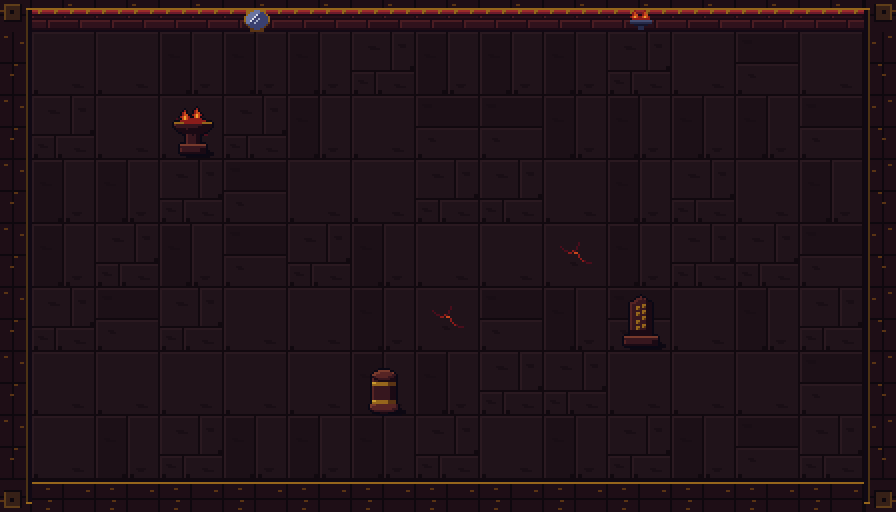
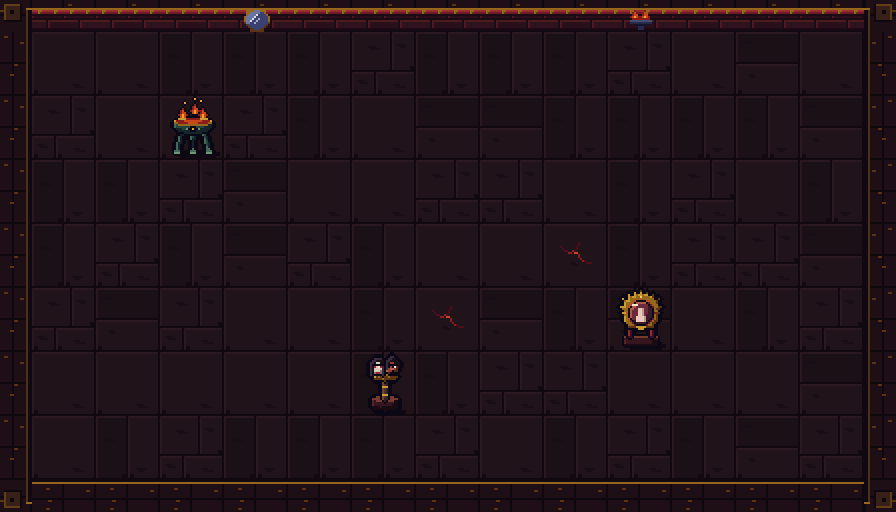
Runde 68: Requisiten Enma-chō in Hi-Res (Kohlebecken auf Krallenfüßen, Jōhari no Kagami, Nintōjō mit Miru-me und Kagu-hana); Spiegel leuchtet
Claude-Session: https://claude.ai/code/session_01KhgxT7UTZZ18pShxxFuE9n

Changed region(s): [[0.1875, 0.1875, 0.25, 0.3125], [0.6875, 0.5625, 0.75, 0.6562], [0.4062, 0.6875, 0.4688, 0.8125]]

diff --git a/art_src/fable/environment/props.py b/art_src/fable/environment/props.py
@@ -933,28 +933,98 @@ def rocks(name):
         out.append(fin(cv, P))
 
     elif name == 'enma_cho':
-        cv, rng = new(0)                                     # stone brazier
-        box(cv, k, 10, 24, 22, 28, top=2)
-        cv.rect(13, 17, 19, 23, k[1])
-        cv.vl(13, 17, 23, k[2])
-        cv.rect(18, 17, 19, 23, k[0])
-        bowl = cv.E(16, 14, 9.4, 5) & (cv.Y >= 13)
-        cv.form(bowl, (k[0], k[1], k[2]), 3, 1)
-        cv.hl(7, 25, 13, GOLD[1])
-        cv.fill(cv.E(16, 12, 6, 1.6), LAVA[1])
-        flame(cv, 10, 7)
-        flame(cv, 16, 6)
+        cv, rng = new(0)                                     # Bronzenes Kohlebecken auf drei Krallenfüßen
+        for (x0, x1) in ((11, 8), (21, 24), (16, 16)):
+            leg = capsule(cv, x0, 16, 1.1, x1, 26.5, .9)
+            cv.fill(dil(leg), K)
+            cv.form(leg, BRONZE[:3], 1, 1)
+            cv.fill(cv.E(x1, 27, 1.8, 1), BRONZE[2])        # Klaue
+            for dx in (-1.2, 0, 1.2):
+                cv.hpx(x1 + dx, 27.6, BRONZE[3])
+        bowl = cv.E(16, 13.5, 9.5, 5.2) & (cv.Y >= 12.5)
+        cv.fill(dil(bowl), K)
+        cv.form(bowl, BRONZE[:3], 2, 1)
+        for x in (10, 13, 16, 19, 22):                       # Rankenmuster
+            cv.hpx(x, 15.5, BRONZE[3])
+            cv.hpx(x + .5, 16, BRONZE[0])
+        cv.fill(cv.E(16, 16, 2, 1.6), K)                     # Oni-Fratze vorn
+        cv.hpx(15.5, 15.6, LAVA[3]); cv.hpx(16.5, 15.6, LAVA[3])
+        rim = cv.E(16, 12.5, 9.6, 2.2) & ~cv.E(16, 12.3, 8.6, 1.4)
+        cv.fill(rim, GOLD[2])
+        cv.fill(rim & (cv.Y > 12.8), GOLD[1])
+        cv.fill(cv.E(16, 12.3, 8.4, 1.4), LAVA[1])           # Glut
+        cv.fill(cv.E(16, 12.3, 5, .8), LAVA[2])
+        for (x, y) in ((9.5, 6), (15, 4), (19.5, 6.5)):
+            flame(cv, x, y)
+        for (x, y) in ((12, 3), (20, 2), (17, 1)):           # Funken
+            cv.hpx(x, y, LAVA[3])
         out.append(fin(cv, P))
-        cv, rng = new(1)                                     # judgment stele with gold script
+
+        cv, rng = new(1)                                     # Jōhari no Kagami: der Spiegel, der alle Taten zeigt
         box(cv, k, 8, 24, 24, 28, top=2)
-        m = cv.PG([(11, 23), (11, 7), (16, 4), (21, 7), (21, 23)])
-        cv.form(m, (k[0], k[1], k[2]), 3, 1)
-        for (x, ys) in ((14, (9, 12, 16, 19)), (17, (8, 11, 14, 18))):
-            for y in ys:
-                cv.rect(x, y, x + 1, y + 1, GOLD[1])
-                cv.px(x + 1, y + 1, GOLD[0])
+        for x in (10.5, 21.5):                               # Ständer
+            post = cv.R(x - .8, 17, x + .8, 24)
+            cv.fill(dil(post), K)
+            cv.form(post, RED[:3], 1, 1)
+        halo = cv.E(16, 12, 9, 9.5) & (cv.Y <= 19)           # Flammenkranz um den Spiegel
+        for i in range(9):
+            ang = math.pi * (1.1 + i * .1)
+            tx, ty = 16 + math.cos(ang) * 11, 12 + math.sin(ang) * 11.5
+            halo |= capsule(cv, 16 + math.cos(ang) * 8, 12 + math.sin(ang) * 8, 1.6, tx, ty, .3)
+        cv.fill(dil(halo), K)
+        cv.form(halo, GOLD[:3], 1, 1)
+        frame = cv.E(16, 12, 7, 7)
+        cv.fill(frame, RED[1])
+        cv.fill(frame & ~sh(frame, 1, 1), RED[3])
+        glass = cv.E(16, 12, 5.6, 5.6)
+        cv.fill(dil(glass) & frame, K)
+        cv.form(glass, ('#3a1a2a', '#6a2a3a', '#b05a4a'), 2, 1)
+        soul = cv.E(16, 11, 1.5, 1.6) | (cv.E(16, 15, 2.6, 2.6) & (cv.Y <= 16.5))   # Seele im Spiegel
+        cv.fill(soul & glass, '#e8c8b8')
+        cv.fill(soul & glass & ~sh(soul, -1, 0), '#c09a90')
+        cv.hline([(12.5, 8.5), (14, 7.5)], '#ffe8d0')        # Glanz
+        cv.hpx(16, 4.5, GOLD[3])
+        cv.fill(cv.E(16, 19.2, 2.2, 1), GOLD[2])
         out.append(fin(cv, P))
-        out.append(fin(pillar(2, k, bands=GOLD), P))
+
+        cv, rng = new(2)                                     # Nintōjō: Enmas Stab mit Miru-me und Kagu-hana
+        base = cv.E(16, 26.5, 7, 2.5) | cv.R(10, 23, 22, 26.5)
+        cv.fill(dil(base), K)
+        cv.form(base, k[:3], 2, 1)
+        cv.fill(cv.E(16, 23, 6, 1.6), k[3])
+        staff = capsule(cv, 16, 23, 1.2, 16, 12, 1)
+        cv.fill(dil(staff), K)
+        cv.form(staff, WOOD[1:], 1, 1)
+        for y in (21, 17):
+            cv.fill(staff & (cv.Y >= y) & (cv.Y < y + .8), GOLD[2])
+        lotus = cv.E(16, 12, 6, 2)                           # Lotussockel
+        cv.fill(dil(lotus), K)
+        cv.form(lotus, GOLD[:3], 1, 1)
+        for x in (11.5, 14, 16.5, 19):
+            cv.hline([(x, 12.5), (x + 1, 11)], GOLD[0])
+        for (cx, skin, side) in ((12.4, '#d8c8b8', -1), (19.6, '#9a3a2a', 1)):
+            head = cv.E(cx, 7.2, 3.2, 3.7)
+            hair = cv.E(cx, 6, 3.6, 3.4) & ~cv.E(cx, 7.6, 2.5, 3)
+            if side < 0:                                     # Miru-me: weißes Gesicht, langes schwarzes Haar
+                hair |= cv.R(cx - 3.5, 6, cx - 2.3, 11) | cv.R(cx + 2.3, 6, cx + 3.5, 11)
+            else:                                            # Kagu-hana: roter Zornkopf mit Haarknoten
+                hair |= cv.E(cx, 3, 1.4, 1.3)
+            cv.fill(dil(head | hair), K)
+            cv.form(head, (mix(skin, K, .45), skin, mix(skin, '#ffffff', .2)), 1, 1)
+            cv.fill(hair, '#1a1018')
+            cv.fill(hair & ~sh(hair, 1, 1), '#3a2a40')
+            for sx in (-1, 1):
+                ex = cx + sx * 1.3
+                cv.hline([(ex - .8, 6 - sx * side * .4), (ex + .8, 6 + sx * side * .4)], K)   # Brauen
+                cv.hpx(ex - .5, 7, '#f0e8d8'); cv.hpx(ex, 7, '#f0e8d8')
+                cv.hpx(ex - .5 + side * .5 * 0, 7, K) if side > 0 else cv.hpx(ex, 7, '#b02020')
+            if side < 0:
+                cv.hline([(cx - .5, 9.5), (cx + .5, 9.5)], '#a02030')
+            else:
+                cv.fill(cv.E(cx + .3, 8.2, 1, 1.1), mix(skin, '#ffffff', .2))   # die große, witternde Nase
+                cv.hpx(cx + .8, 8.8, K)
+                cv.hline([(cx - 1, 10), (cx, 9.6), (cx + 1, 10)], K)
+        out.append(fin(cv, P))
 
     elif name == 'tsukiyomi':
         cv, rng, m = plain_boulder(0)                        # moon rock with craters

diff --git a/yokai/gfx.py b/yokai/gfx.py
@@ -701,7 +701,8 @@ PROP_LIGHT = {
     ('shinkai', 0): (16, 21, SEA, 36),                     # Perle der Hamaguri
     ('shinkai', 1): (16, 14, SEA, 26),                     # Leuchtfische
     ('shinkai', 2): (16, 14, SEA, 52),                     # versunkene Tōrō
-    ('enma_cho', 0): (14, 8, FIRE, 56),                    # Kohlebecken
+    ('enma_cho', 0): (15, 7, FIRE, 56),                    # Kohlebecken
+    ('enma_cho', 1): (16, 12, (255, 120, 90), 28),         # Jōhari-Spiegel
     ('yomi_oku', 0): (15, 8, ONIBI_C, 44),                 # Säule mit Totenfeuer
     ('yomi_oku', 1): (16, 26, ONIBI_C, 44),                # Herd der Unterwelt
 }

diff --git a/CHANGELOG.md b/CHANGELOG.md
@@ -89,6 +89,7 @@
 - Runde 65 – **Waffen wirken mit allen Wurf-Items zusammen:** Lichtstrahl, Schwert, Keule, Sense, Speer, Bogen und Windfächer übernehmen jetzt Mehrfachwurf (mehrere Strahlen; Hiebwaffen schleudern Klingenwellen), Rück- und Seitenwürfe, Zielsuche (Strahlen und Hiebe drehen sich zum Feind, mehrere Strahlen verteilen sich auf verschiedene Ziele), Feuer, Gift, Frost, Kettenblitz, Teilen, Rückstoß, Sprengsiegel, Abprall (der Strahl wird an Wänden gespiegelt), Geisterwurf (der Strahl geht durch Felsen) und den großen Wurf jedes n-ten Mal; Strahlen und Hiebe nehmen die Farbe ihres Elements an. Neuer Test `tools/waffentest.py`
 - Runde 66 – **Gefolge, Kreisschilde und Aura mit Item-Wirkungen:** Das Gefolge (Familiars) wirft mit allen Wurf-Eigenschaften deiner Items (Feuer, Gift, Frost, Kettenblitz, Abprall, Durchschlag …) statt nur zielsuchend; Kreisschilde setzen Feuer, Gift, Frost, Kettenblitz und Rückstoß, die Aura brennt, vergiftet und verlangsamt. `tools/waffentest.py` prüft auch das
 - Runde 67 – **Alle Geschosse tragen Feuer, Gift und Frost:** Auch die Würfe aktiver Items und Item-Fähigkeiten (Rattenschwarm, Papierdiener, Rückstrahlen, Wurfsterne, Federn, Splitter …) übernehmen jetzt Brand, Gift und Verlangsamung deiner Items. Kettenblitz bleibt bewusst beim Talisman, damit keine Kettenreaktionen entstehen
+- Runde 68 – Requisiten am Hof des Enma neu in Hi-Res: bronzenes Kohlebecken auf Krallenfüßen mit Oni-Fratze und Funkenflug, der **Jōhari no Kagami** (Enmas Spiegel, der alle Taten der Toten zeigt) im Flammenkranz – er glimmt rot –, und der **Nintōjō**, Enmas Stab mit den Köpfen Miru-me und Kagu-hana, die jede Sünde sehen und riechen
 
 ## 1.4.0 – „Hyakki-Update“ (enthält 1.3 „Kapitel-Update“)
 
